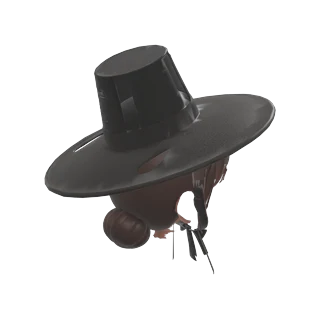
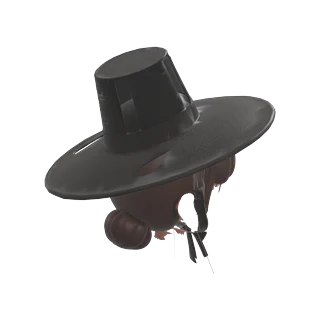
fix(art): 모자 아래 여자 앞머리를 눈썹을 덮는 두꺼운 앞머리로 (#341)
- 시스루 앞머리는 모델 눈썹을 지운 자리가 앞머리 끝에서 들쭉날쭉해 보여서, 눈썹을 덮는 두꺼운 앞머리로 다시 만듦
- split_head.py face_above=: 맞추기용 얼굴에서 턱 아래(목)를 뺌
- 옷 파일 캐시 번호 rig=14

diff --git a/frontend/src/world/art/outfitSources.ts b/frontend/src/world/art/outfitSources.ts
@@ -3,7 +3,7 @@ import type { GLTF } from 'three/addons/loaders/GLTFLoader.js'
 import { ParkAssetLoader } from './assetLoader'
 
 /** Outfit files are fetched when someone first wears one, not with the park: most visitors never need them. */
-export const outfitUrl = (name: string) => `/art/characters/outfits/${name}.glb?rig=13`
+export const outfitUrl = (name: string) => `/art/characters/outfits/${name}.glb?rig=14`
 
 const loaded = new Map<string, GLTF>()
 const requested = new Set<string>()

diff --git a/tools/character/split_head.py b/tools/character/split_head.py
@@ -1,5 +1,5 @@
 """Split a Tripo head part (hair and face skin came out as one part) by texel colour:
--- <parts.glb> <out.glb> part=1 [hair=90] [face=91] [dark=0.5] [smooth=4] [min_island=300] [cut=x,y,z] [brows=zlo,zhi,xmax]
+-- <parts.glb> <out.glb> part=1 [hair=90] [face=91] [dark=0.5] [smooth=4] [min_island=300] [cut=x,y,z] [brows=zlo,zhi,xmax] [face_above=z]
 Each face is hair when its mean texel brightness is under `dark`; then `smooth` passes of neighbour majority vote
 clean the edge. The hair becomes tripo_part_<hair>, the skin tripo_part_<face>; every other part is kept."""
 import bpy, bmesh, sys, os
@@ -70,6 +70,9 @@ for name, keep in ((HAIR, True), (FACE, False)):
                         if nf not in seen: seen.add(nf); grp.append(nf); st.append(nf)
             if len(grp) < int(opt.get('min_island', 300)): small += grp
         bmesh.ops.delete(b, geom=small, context='FACES'); print('SPLIT', len(small), 'faces in small hair islands dropped')
+    elif opt.get('face_above'):   # (the face for head_fit: the skin above the chin; with the neck in it the fit went 19 cm off)
+        z0 = float(opt['face_above']); mw = c.matrix_world
+        bmesh.ops.delete(b, geom=[f for f in b.faces if (mw @ f.calc_center_median()).z < z0], context='FACES')
     b.to_mesh(c.data); b.free(); c.name = name
 bpy.data.objects.remove(o)
 bpy.ops.export_scene.gltf(filepath=out, export_format='GLB', export_image_format='AUTO')

diff --git a/docs/character-outfits.md b/docs/character-outfits.md
@@ -133,17 +133,19 @@
 
 - 조각 이름은 `item__HAIR__<문자>__for_man` / `item__HAIR__<문자>__for_girl`이다. 게임은 그 캐릭터에만 그린다(`characterLook.ts`).
 - 남자 머리카락은 기본 머리 `b`를 복사해 쓴다. Tripo 머리보다 깔끔하고 기본 모습과 머릿결이 같다.
-- 여자는 기본 머리 `e`(포니테일)를 쓰면 모자 아래에서 어색해서, 모자용 머리 `i`(시스루 앞머리, 얼굴 옆으로 내린 가는 머리, 낮은 쪽머리)를 따로 만들었다. 처음에는 가르마를 탄 올백 쪽머리로 했는데, 이마가 다 드러나 정면에서 남자처럼 보였다(user).
-  1. 공용 몸 T자 시트(`pose_sheet.py pose=t`)를 Gemini에 넣고, 몸·얼굴·배치는 그대로 두고 머리만 그리게 했다: 눈썹이 보이는 얇은 앞머리, 귀 앞으로 턱까지 내린 가는 머리, 나머지는 목덜미의 둥근 쪽. 정수리와 뒤는 머리에 붙게 해서 모자가 얹히게 한다. 모자·장신구는 넣지 않는다.
+- 여자는 기본 머리 `e`(포니테일)를 쓰면 모자 아래에서 어색해서, 모자용 머리 `i`(눈썹을 덮는 두꺼운 앞머리, 얼굴 옆으로 내린 가는 머리, 낮은 쪽머리)를 따로 만들었다.
+  - 처음 만든 가르마 올백 쪽머리는 이마가 다 드러나 정면에서 남자처럼 보였다(user).
+  - 두 번째로 만든 눈썹이 보이는 시스루 앞머리는, 모델 눈썹을 지운 자리가 앞머리 끝에서 들쭉날쭉하게 잘려 이상해 보였다(user). 그래서 눈썹을 덮는 앞머리로 바꿨다. 이제 눈썹은 앞머리 밑에 가려져 지울 필요가 없다(`split_head.py`의 `brows=`는 이때 쓴 옵션이다).
+  1. 공용 몸 T자 시트(`pose_sheet.py pose=t`)를 Gemini에 넣고, 몸·얼굴·배치는 그대로 두고 머리만 그리게 했다: 이마를 다 덮고 눈 바로 위에서 고르게 끝나는 두꺼운 앞머리(틈 없이), 귀 앞으로 턱까지 내린 가는 머리, 목덜미의 둥근 쪽. 정수리와 뒤는 머리에 붙게 해서 모자가 얹히게 한다. 모자·장신구는 넣지 않는다.
   2. Tripo 여러 면(정면 / Left = 오른쪽 아래 / Right = 오른쪽 위 / 뒤), Generate in Parts, Balanced, 4K 텍스처.
-  3. Tripo가 머리카락을 피부·티셔츠와 한 부품(`tripo_part_0`)으로 냈다. `split_head.py`가 텍스처 밝기로 나눈다(머리 `tripo_part_90`).
-     - `cut=0.1,0.0,0.645`: 목 앞의 티셔츠 깃 안쪽(어두운 띠)은 머리가 아니다.
-     - `brows=0.775,0.825,0.13`: 모델의 눈썹이 이마와 같은 면에 그려져 머리로 잡혔고, 몸의 눈썹 위에 겹쳐 두꺼워 보였다. 그 높이에서 뒤(머리 안쪽) 2 cm 안에 아무것도 없는 앞쪽 면은 두개골 위의 눈썹이라 지운다. 앞머리는 이마 몇 mm 앞에 떠 있어서 남는다. 띠를 넓히면(0.74~0.88) 앞머리 밑의 두피까지 지워져 앞머리 사이로 피부가 보였다.
-  4. 머리만 기준 빌드에 맞춘다(쪽 `tripo_part_7`, 턱 아래로 내린 머리끝 `11`·`12`). 얼굴 부품(`tripo_part_1`)으로 맞추니 크기 0.984배였다.
+  3. Tripo가 머리카락과 얼굴을 한 부품(`tripo_part_0`, 쪽만 `tripo_part_2`)으로 냈다. `split_head.py`가 텍스처 밝기로 나눈다(머리 `tripo_part_90`, 얼굴 `tripo_part_91`).
+     - `cut=0.1,-0.12,0.755`: 앞머리 아래 얼굴 앞쪽(어두운 눈동자)은 머리가 아니다.
+     - `face_above=0.62`: 맞추기(`head_fit`)에 쓰는 얼굴은 턱 위만 남긴다. 목까지 들어 있으면 맞추기가 19 cm 어긋났다.
+  4. 머리만 기준 빌드에 맞춘다. 얼굴로 맞추니 크기 0.986배였다.
 
 ```bash
-"$B" -b --python tools/character/split_head.py -- girl_bangs_parts.glb girl_bangs_split.glb part=0 min_island=300 cut=0.1,0.0,0.645 brows=0.775,0.825,0.13
-"$B" -b --python tools/character/fit_outfit.py -- shared_layers_h.glb girl_bangs_split.glb shared_layers_hi.glb set=i s=1.065 head_fit=1 "map=HAIR:90,7,11,12"
+"$B" -b --python tools/character/split_head.py -- girl_fringe_parts.glb girl_fringe_split.glb part=0 min_island=300 cut=0.1,-0.12,0.755 face_above=0.62
+"$B" -b --python tools/character/fit_outfit.py -- shared_layers_h.glb girl_fringe_split.glb shared_layers_hi.glb set=i s=1.065 head_fit=91 "map=HAIR:90,2"
 ```
 
 - `i`는 모자 아래 머리의 원본일 뿐이라 아이템으로 팔지 않는다(옷 파일에도 넣지 않는다).
